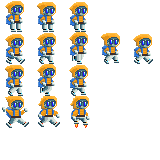
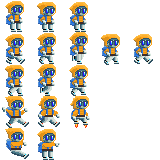
Add sliding, firing and swimming animations

Changed region(s): [[0.2188, 0.7812, 0.375, 1.0], [0.0312, 0.7812, 0.1875, 1.0], [0.625, 0.1875, 0.75, 0.4062]]

diff --git a/Assets/RoomShuffle/Objects/Player/Movement/SwimController.cs b/Assets/RoomShuffle/Objects/Player/Movement/SwimController.cs
@@ -6,71 +6,74 @@ using System.Threading.Tasks;
 
 using UnityEngine;
 
-namespace Assets.RoomShuffle.Objects.Player.Movement
+/// <summary>
+/// Lets the player swim in water
+/// </summary>
+[RequireComponent(typeof(SpriteAnimator))]
+public class SwimController : MonoBehaviour
 {
-    /// <summary>
-    /// Lets the player swim in water
-    /// </summary>
-    public class SwimController : MonoBehaviour
+    private Rigidbody2D _rigidbody;
+    public bool _lastSubmergeState;
+    public SpriteAnimator _animator;
+
+    /* *** */
+
+    [Tooltip("How quickly the player will ascend when swimming")]
+    public float SwimForce = 10;
+
+    [Tooltip("The amount of upwards force that will be applied when the player leaves water upwards")]
+    public float JumpOutForce = 30;
+
+    [Header("Limits")]
+    [Tooltip("The maximum speed the player can have moving upwards when in water")]
+    public float MaxAscensionSpeed = 10;
+
+    [Tooltip("The maximum speed the player can have moving downwards when in water")]
+    public float MaxSinkSpeed = 10;
+
+    [Tooltip("The maximum speed the player can have moving sideways when in water")]
+    public float MaxHorizontalSpeed = 5;
+
+    private void Awake()
     {
-        private Rigidbody2D _rigidbody;
-        private bool _lastSubmergeState;
+        _rigidbody = GetComponent<Rigidbody2D>();
+        _animator = GetComponent<SpriteAnimator>();
+    }
 
-        /* *** */
+    private void Update()
+    {
+        bool isSubmerged = Water.IsSubmerged(_rigidbody);
 
-        [Tooltip("How quickly the player will ascend when swimming")]
-        public float SwimForce = 10;
+        //Let the player jump out of the water properly
+        if (!isSubmerged && _lastSubmergeState && Input.GetButton("Jump"))
+            _rigidbody.SetVelocityY(JumpOutForce);
 
-        [Tooltip("The amount of upwards force that will be applied when the player leaves water upwards")]
-        public float JumpOutForce = 30;
+        _lastSubmergeState = Water.IsSubmerged(_rigidbody);
 
-        [Header("Limits")]
-        [Tooltip("The maximum speed the player can have moving upwards when in water")]
-        public float MaxAscensionSpeed = 10;
+        //If not in water, don't run the rest of the script
+        if (!isSubmerged)
+            return;
 
-        [Tooltip("The maximum speed the player can have moving downwards when in water")]
-        public float MaxSinkSpeed = 10;
-
-        [Tooltip("The maximum speed the player can have moving sideways when in water")]
-        public float MaxHorizontalSpeed = 5;
-
-        private void Awake()
+        //Swim up
+        if (Input.GetButtonDown("Jump"))
         {
-            _rigidbody = GetComponent<Rigidbody2D>();
+            /*
+             * If the player is sinking at a high speed they are decelerated so that the sinking effect isn't so strong
+             * that the swimming isn't doing anything
+             * In other words... game feel
+             */
+
+            float clampedSinkSpeedBeforeSwim = MaxSinkSpeed / 4;
+            _rigidbody.SetVelocityY(currentY => Math.Max(-clampedSinkSpeedBeforeSwim, currentY));
+
+            _rigidbody.velocity += Vector2.up * SwimForce;
+
+            //Restart the swim stroke
+            _animator.RestartAnimation();
         }
 
-        private void Update()
-        {
-            bool isSubmerged = Water.IsSubmerged(_rigidbody);
-
-            //Let the player jump out of the water properly
-            if (!isSubmerged && _lastSubmergeState && Input.GetButton("Jump"))
-                _rigidbody.SetVelocityY(JumpOutForce);
-
-            _lastSubmergeState = Water.IsSubmerged(_rigidbody);
-
-            //If not in water, don't run the rest of the script
-            if (!isSubmerged)
-                return;
-
-            //Swim up
-            if (Input.GetButtonDown("Jump"))
-            {
-                /*
-                 * If the player is sinking at a high speed they are decelerated so that the "pulling-down" effect isn't so strong
-                 * that the swimming isn't doing anything
-                 * In other words... game feel
-                 */
-                
-                float clampedSinkSpeedBeforeSwim = MaxSinkSpeed / 4;
-                _rigidbody.SetVelocityY(currentY => Math.Max(-clampedSinkSpeedBeforeSwim, currentY));
-                
-                _rigidbody.velocity += Vector2.up * SwimForce;
-            }
-
-            //Clamp speeds
-            _rigidbody.SetVelocityY(currentY => Mathf.Clamp(currentY, -MaxSinkSpeed, MaxAscensionSpeed));
-            _rigidbody.SetVelocityX(currentX => Mathf.Clamp(currentX, -MaxHorizontalSpeed, MaxHorizontalSpeed));
-        }
+        //Clamp speeds
+        _rigidbody.SetVelocityY(currentY => Mathf.Clamp(currentY, -MaxSinkSpeed, MaxAscensionSpeed));
+        _rigidbody.SetVelocityX(currentX => Mathf.Clamp(currentX, -MaxHorizontalSpeed, MaxHorizontalSpeed));
     }
 }

diff --git a/Assets/RoomShuffle/Objects/Player/CharacterAnimator.cs b/Assets/RoomShuffle/Objects/Player/CharacterAnimator.cs
@@ -10,6 +10,7 @@ using UnityEngine;
 [RequireComponent(typeof(SpriteAnimator))]
 [RequireComponent(typeof(Flippable))]
 [RequireComponent(typeof(Rigidbody2D))]
+[RequireComponent(typeof(WallJump))]
 public class CharacterAnimator : MonoBehaviour
 {
     [Header("Animations")]
@@ -22,20 +23,33 @@ public class CharacterAnimator : MonoBehaviour
     [Tooltip("The animation to use when the character is moving up")]
     public SpriteAnimation Jump;
 
+    [Tooltip("The animation to use when the character is underwater")]
+    public SpriteAnimation Swim;
+
     [Tooltip("The animation to use when the character is moving down")]
     public SpriteAnimation Fall;
+
+    [Tooltip("The animation to use when the character is sliding down a wall-jumpable wall")]
+    public SpriteAnimation Slide;
+
+    [Tooltip("The animation to use when the character is firing a weapon")]
+    public SpriteAnimation Fire;
 
     /* *** */
 
     private Rigidbody2D _rigid;
     private SpriteAnimator _spriteAnimator;
+    private WallJump _wallJump;
     private Flippable _flippable;
+
+    private RenewableLazy<PlayerWeaponShooter> _playerShooter = new RenewableLazy<PlayerWeaponShooter>(() => FindObjectOfType<PlayerWeaponShooter>());
 
     private void Awake()
     {
         _rigid = GetComponent<Rigidbody2D>();
         _spriteAnimator = GetComponent<SpriteAnimator>();
         _flippable = GetComponent<Flippable>();
+        _wallJump = GetComponent<WallJump>();
     }
 
     void Update()
@@ -70,13 +84,31 @@ public class CharacterAnimator : MonoBehaviour
          * Set animation
          */
 
+        //Shooting
+        if ((System.DateTime.Now - Commons.Inventory.LastFireTime).TotalSeconds <= 0.1f)
+            _spriteAnimator.Animation = Fire;
+
+        //Swimming
+        else if (Water.IsSubmerged(_rigid) && !this.OnGround2D())
+            _spriteAnimator.Animation = Swim;
+
         //Jumping (Moving up)
-        if (_rigid.velocity.y > MIN_MOTION && !this.OnGround2D())
+        else if (_rigid.velocity.y > MIN_MOTION && !this.OnGround2D())
             _spriteAnimator.Animation = Jump;
 
         //Falling (In the air)
         else if (!this.OnGround2D())
-            _spriteAnimator.Animation = Fall;
+        {
+            if (_wallJump.NextToWall)
+            {
+                _spriteAnimator.Animation = Slide;
+            }
+            else
+            {
+                _spriteAnimator.Animation = Fall;
+            }
+        }
+
 
         //Falling (Moving laterally)
         else if (Mathf.Abs(_rigid.velocity.x) > MIN_MOTION)

diff --git a/Assets/RoomShuffle/Objects/Player/Movement/WallJump.cs b/Assets/RoomShuffle/Objects/Player/Movement/WallJump.cs
@@ -12,10 +12,12 @@ using UnityEngine;
 /// </summary>
 [RequireComponent(typeof(Rigidbody2D))]
 [RequireComponent(typeof(Collider2D))]
+[RequireComponent(typeof(Flippable))]
 public class WallJump : MonoBehaviour
 {
     private Rigidbody2D _rigid;
     private Collider2D _collider;
+    private Flippable _flippable;
 
     [Tooltip("The force that will be applied by a wall jump")]
     public float WallJumpForce = 10f;
@@ -23,10 +25,13 @@ public class WallJump : MonoBehaviour
     [Tooltip("The maximum speed the player is allowed to fall when adjacent to a wall and ready to wall jump")]
     public float MaxFallSpeedOnWall = 5f;
 
+    public bool NextToWall { get; private set; }
+
     private void Awake()
     {
         _rigid = GetComponent<Rigidbody2D>();
         _collider = GetComponent<Collider2D>();
+        _flippable = GetComponent<Flippable>();
     }
 
     private void Update()
@@ -39,10 +44,10 @@ public class WallJump : MonoBehaviour
         Vector2? wallNormal = GetWallNormal();
 
         //If there is an adjacent wall
-        if (wallNormal != null)
-        {
-            DebugScreenDrawer.Enable("wallang", "wallang: " + Vector2.Angle(wallNormal.Value, Vector2.up));
+        NextToWall = wallNormal != null && Mathf.Sign(wallNormal.Value.x) == -_flippable.DirectionSign;
 
+        if (NextToWall)
+        {
             //If the player attempts to jump while next to a wall, create a wall jump
             if (Input.GetButtonDown("Jump") && !this.OnGround2D())
             {
@@ -52,10 +57,6 @@ public class WallJump : MonoBehaviour
 
             //Restrict maximum falling speed
             _rigid.velocity = _rigid.velocity.SetY(Mathf.Max(_rigid.velocity.y, -MaxFallSpeedOnWall));        
-        }
-        else
-        {
-            DebugScreenDrawer.Enable("wallang", "wallang: N/A");
         }
     }
 

diff --git a/Assets/RoomShuffle/Objects/GameManager/Inventory.cs b/Assets/RoomShuffle/Objects/GameManager/Inventory.cs
@@ -54,6 +54,11 @@ public class Inventory : MonoBehaviour
         }
     }
 
+    /// <summary>
+    /// Gets the last time the player fired a weapon
+    /// </summary>
+    public DateTime LastFireTime { get; private set; }
+
     [Tooltip("The amount of spendable currency the player has")]
     public int Currency;
 
@@ -80,14 +85,21 @@ public class Inventory : MonoBehaviour
             if (SelectedWeapon == null || (SelectedWeapon.Durability == 0 && !Cheats.InfiniteAmmo))
             {
                 if (_fallbackWeaponInstance.CanFire(ignoreDurability: true))
+                {
                     _fallbackWeaponInstance.Fire(this.GetPlayer().GetComponent<WeaponShooterBase>());
+                    LastFireTime = DateTime.Now;
+                }
+                    
             }
 
             //Player has weapon. Fire it if it can be fired
             else
             {
                 if (SelectedWeapon.CanFire(ignoreDurability: false))
+                {
                     SelectedWeapon.Fire(this.GetPlayer().GetComponent<WeaponShooterBase>());
+                    LastFireTime = DateTime.Now;
+                }
             }
         }
 
